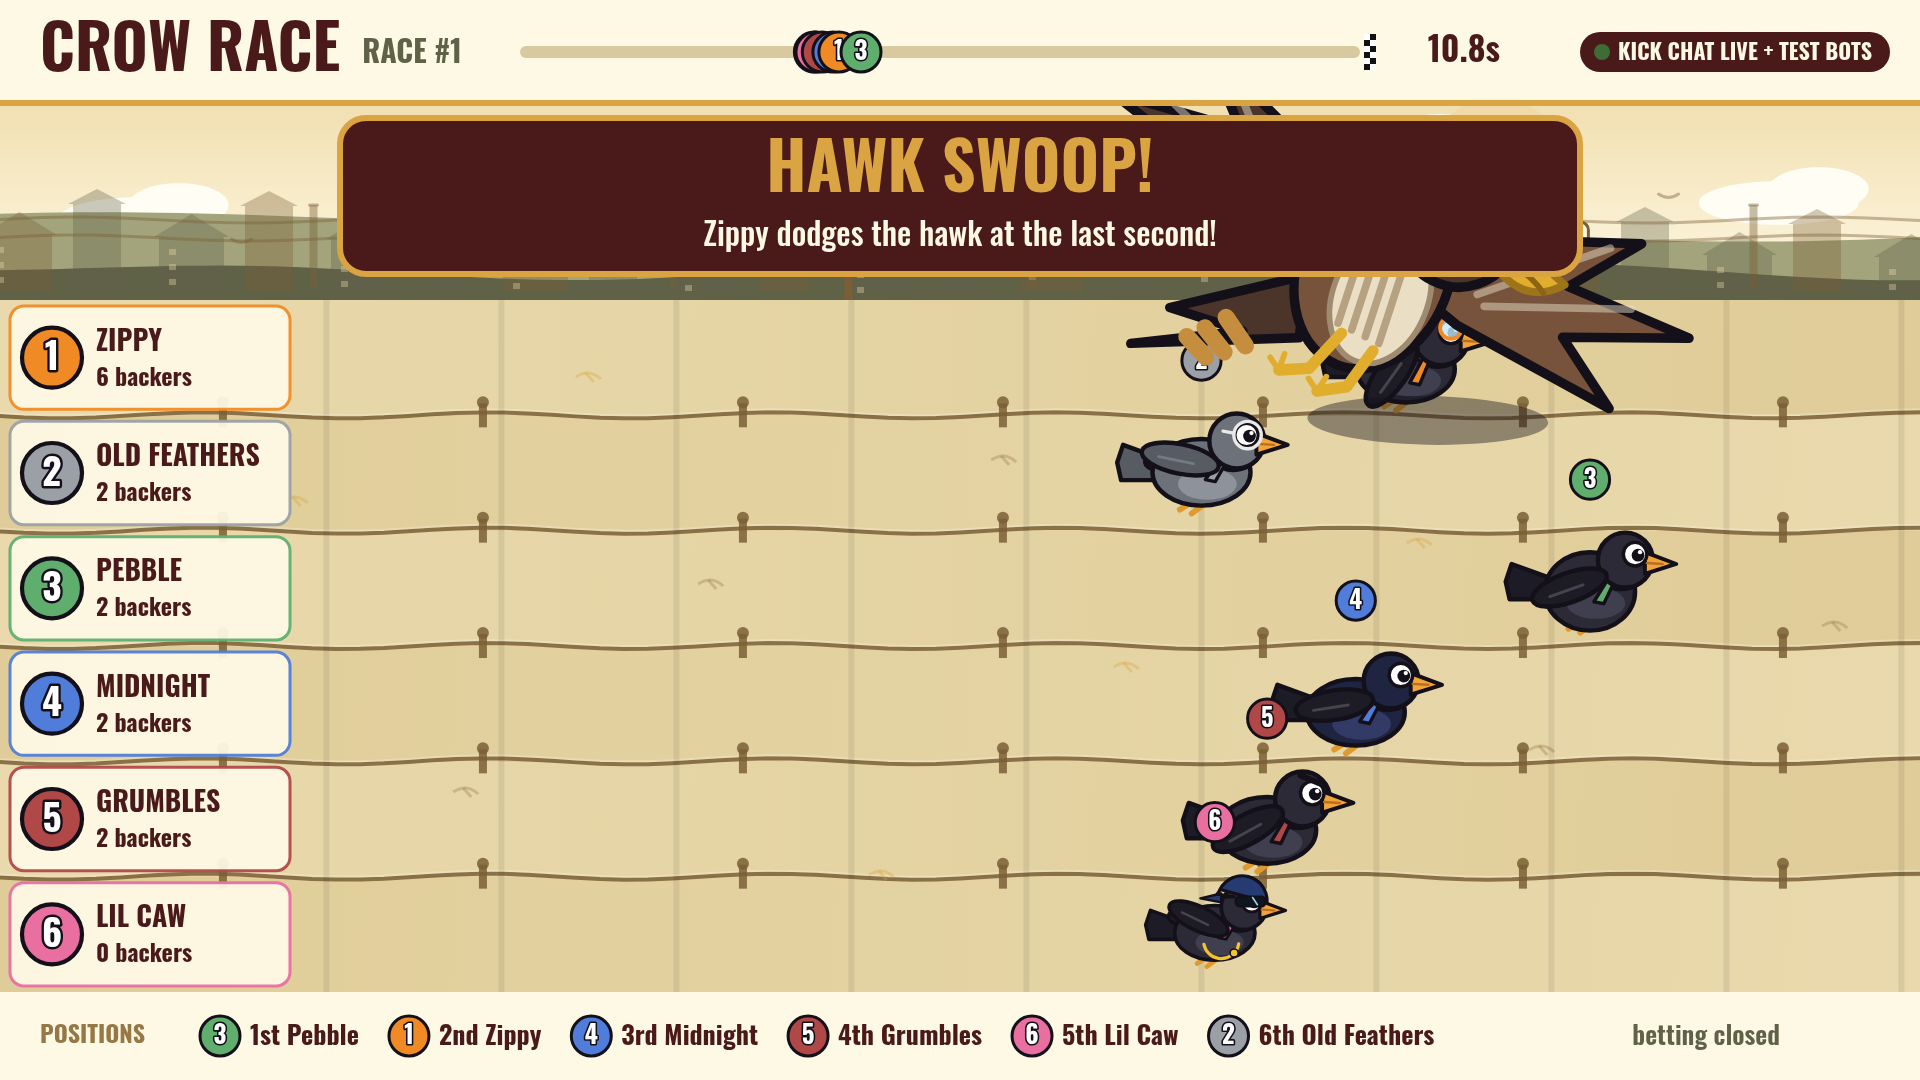
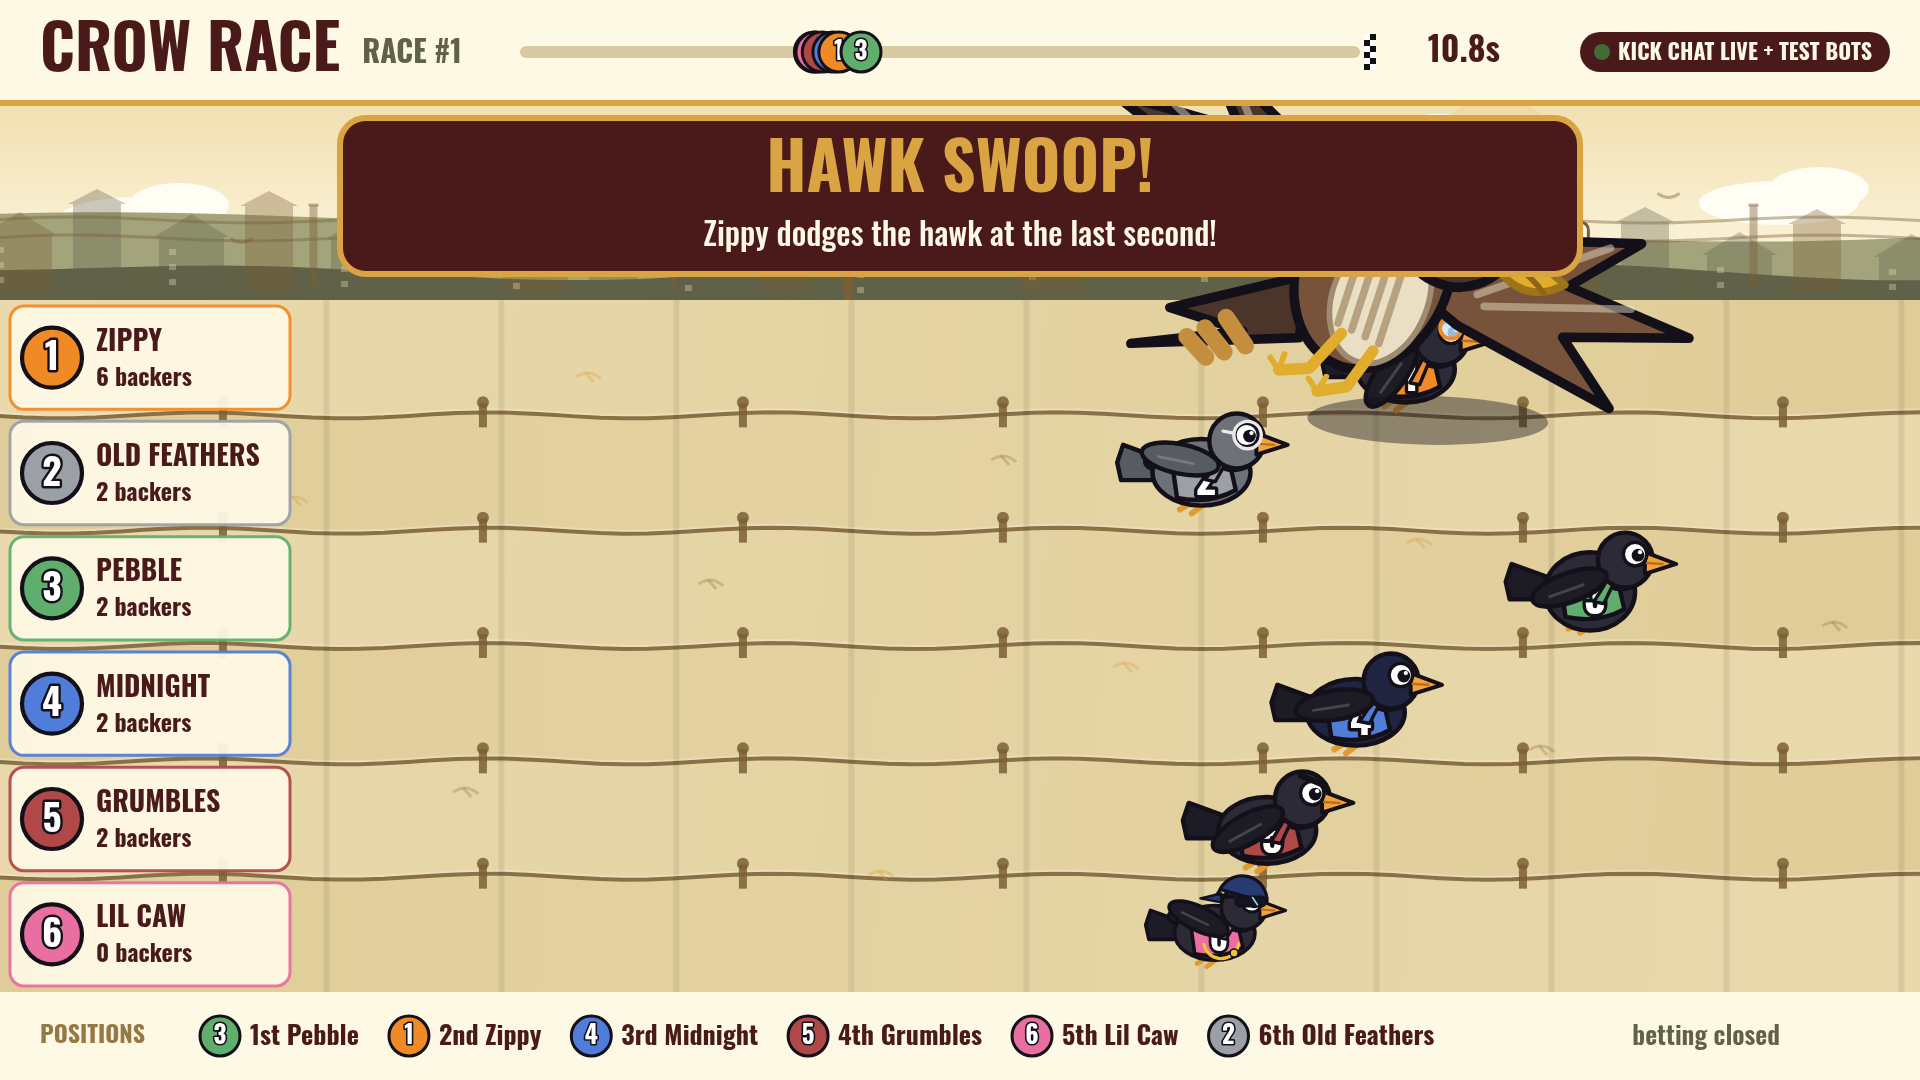
Attach race numbers to crow jerseys

diff --git a/index.html b/index.html
@@ -414,7 +414,14 @@ function drawCrow(x, y, s, c, t, o) {
   // body
   if (c.round) ell(0, 6, 46, 40); else ell(0, 6, 50, 34); fs(body, lw);
   ell(6, 18, 30, 16); fs(belly);
-  // scarf in the crow's color (matches its number badge)
+  // Race vest keeps each number attached to its own crow instead of floating above it.
+  // It sits low on the body so scarves, rapper gear, and other head accessories stay visible.
+  if (o.jersey && o.number != null) {
+    ctx.beginPath(); ctx.moveTo(-30, -4); ctx.quadraticCurveTo(0, -12, 29, -2);
+    ctx.lineTo(35, 24); ctx.quadraticCurveTo(8, 39, -25, 32); ctx.closePath(); fs(c.col, 4.5);
+    T(String(o.number), 5, 16, 42, '#fff', 'center', { stroke: OUT, sw: 7, w: 700 });
+  }
+  // scarf in the crow's color (matches its jersey and number)
   ctx.save(); ctx.beginPath(); ctx.moveTo(14, -18); ctx.quadraticCurveTo(30, -4, 48, -14); ctx.lineTo(48, 0); ctx.quadraticCurveTo(28, 10, 12, -4); ctx.closePath(); fs(c.col, 3.5);
   ctx.beginPath(); ctx.moveTo(18, -6); ctx.lineTo(4, 16 + f * 4); ctx.lineTo(14, 18 + f * 4); ctx.lineTo(24, -2); ctx.closePath(); fs(c.col, 3.5); ctx.restore();
   // head
@@ -625,8 +632,7 @@ function drawRace(t) {
     const boosted = c.boost > 0 || (c.wind > 0 && c.windK > 1);
     if (boosted) { ctx.save(); ctx.strokeStyle = c.c.col; ctx.lineWidth = 6; ctx.lineCap = 'round'; for (let q = 0; q < 3; q++) { const yy = y - 18 + q * 18, x0 = x - s * 0.9 - ((t * 600 + q * 40) % 60); ctx.beginPath(); ctx.moveTo(x0, yy); ctx.lineTo(x0 - 70, yy); ctx.stroke(); } ctx.restore(); }
     const back = c.back > 0, stop = !back && c.stop > 0 && !c.place;
-    drawCrow(x, stop ? cy + lh * 0.08 : y, s, c.c, t + c.ph, { stand: stop, tilt: back ? Math.sin(t * 20) * 0.6 - 0.4 : 0, flap: t * (boosted ? 26 : 14) + c.ph });
-    badge(x, y - s * 1.08, Math.max(18, Math.min(24, s * 0.2)), j + 1, c.c.col);
+    drawCrow(x, stop ? cy + lh * 0.08 : y, s, c.c, t + c.ph, { stand: stop, tilt: back ? Math.sin(t * 20) * 0.6 - 0.4 : 0, flap: t * (boosted ? 26 : 14) + c.ph, jersey: true, number: j + 1 });
     if (c.place) { const mc = ['#f4c430', '#c9ccd2', '#cd7f32'][c.place - 1] || P.muted; circ(x - s * 0.95, y - s * 0.35, 26); fs(mc, 4); T(ord(c.place), x - s * 0.95, y - s * 0.34, 22, OUT, 'center'); }
     if (x <= FIELD.x0 + 61 && !c.place) T('\u25C0 ' + Math.round(Math.max(0, (Math.max(...R.crows.map(q => q.d)) - c.d))) + 'm', FIELD.x0 + 4, cy + lh * 0.32, 20, P.bad, 'left');
   });

diff --git a/src/3-draw.js b/src/3-draw.js
@@ -35,7 +35,14 @@ function drawCrow(x, y, s, c, t, o) {
   // body
   if (c.round) ell(0, 6, 46, 40); else ell(0, 6, 50, 34); fs(body, lw);
   ell(6, 18, 30, 16); fs(belly);
-  // scarf in the crow's color (matches its number badge)
+  // Race vest keeps each number attached to its own crow instead of floating above it.
+  // It sits low on the body so scarves, rapper gear, and other head accessories stay visible.
+  if (o.jersey && o.number != null) {
+    ctx.beginPath(); ctx.moveTo(-30, -4); ctx.quadraticCurveTo(0, -12, 29, -2);
+    ctx.lineTo(35, 24); ctx.quadraticCurveTo(8, 39, -25, 32); ctx.closePath(); fs(c.col, 4.5);
+    T(String(o.number), 5, 16, 42, '#fff', 'center', { stroke: OUT, sw: 7, w: 700 });
+  }
+  // scarf in the crow's color (matches its jersey and number)
   ctx.save(); ctx.beginPath(); ctx.moveTo(14, -18); ctx.quadraticCurveTo(30, -4, 48, -14); ctx.lineTo(48, 0); ctx.quadraticCurveTo(28, 10, 12, -4); ctx.closePath(); fs(c.col, 3.5);
   ctx.beginPath(); ctx.moveTo(18, -6); ctx.lineTo(4, 16 + f * 4); ctx.lineTo(14, 18 + f * 4); ctx.lineTo(24, -2); ctx.closePath(); fs(c.col, 3.5); ctx.restore();
   // head
@@ -246,8 +253,7 @@ function drawRace(t) {
     const boosted = c.boost > 0 || (c.wind > 0 && c.windK > 1);
     if (boosted) { ctx.save(); ctx.strokeStyle = c.c.col; ctx.lineWidth = 6; ctx.lineCap = 'round'; for (let q = 0; q < 3; q++) { const yy = y - 18 + q * 18, x0 = x - s * 0.9 - ((t * 600 + q * 40) % 60); ctx.beginPath(); ctx.moveTo(x0, yy); ctx.lineTo(x0 - 70, yy); ctx.stroke(); } ctx.restore(); }
     const back = c.back > 0, stop = !back && c.stop > 0 && !c.place;
-    drawCrow(x, stop ? cy + lh * 0.08 : y, s, c.c, t + c.ph, { stand: stop, tilt: back ? Math.sin(t * 20) * 0.6 - 0.4 : 0, flap: t * (boosted ? 26 : 14) + c.ph });
-    badge(x, y - s * 1.08, Math.max(18, Math.min(24, s * 0.2)), j + 1, c.c.col);
+    drawCrow(x, stop ? cy + lh * 0.08 : y, s, c.c, t + c.ph, { stand: stop, tilt: back ? Math.sin(t * 20) * 0.6 - 0.4 : 0, flap: t * (boosted ? 26 : 14) + c.ph, jersey: true, number: j + 1 });
     if (c.place) { const mc = ['#f4c430', '#c9ccd2', '#cd7f32'][c.place - 1] || P.muted; circ(x - s * 0.95, y - s * 0.35, 26); fs(mc, 4); T(ord(c.place), x - s * 0.95, y - s * 0.34, 22, OUT, 'center'); }
     if (x <= FIELD.x0 + 61 && !c.place) T('\u25C0 ' + Math.round(Math.max(0, (Math.max(...R.crows.map(q => q.d)) - c.d))) + 'm', FIELD.x0 + 4, cy + lh * 0.32, 20, P.bad, 'left');
   });
